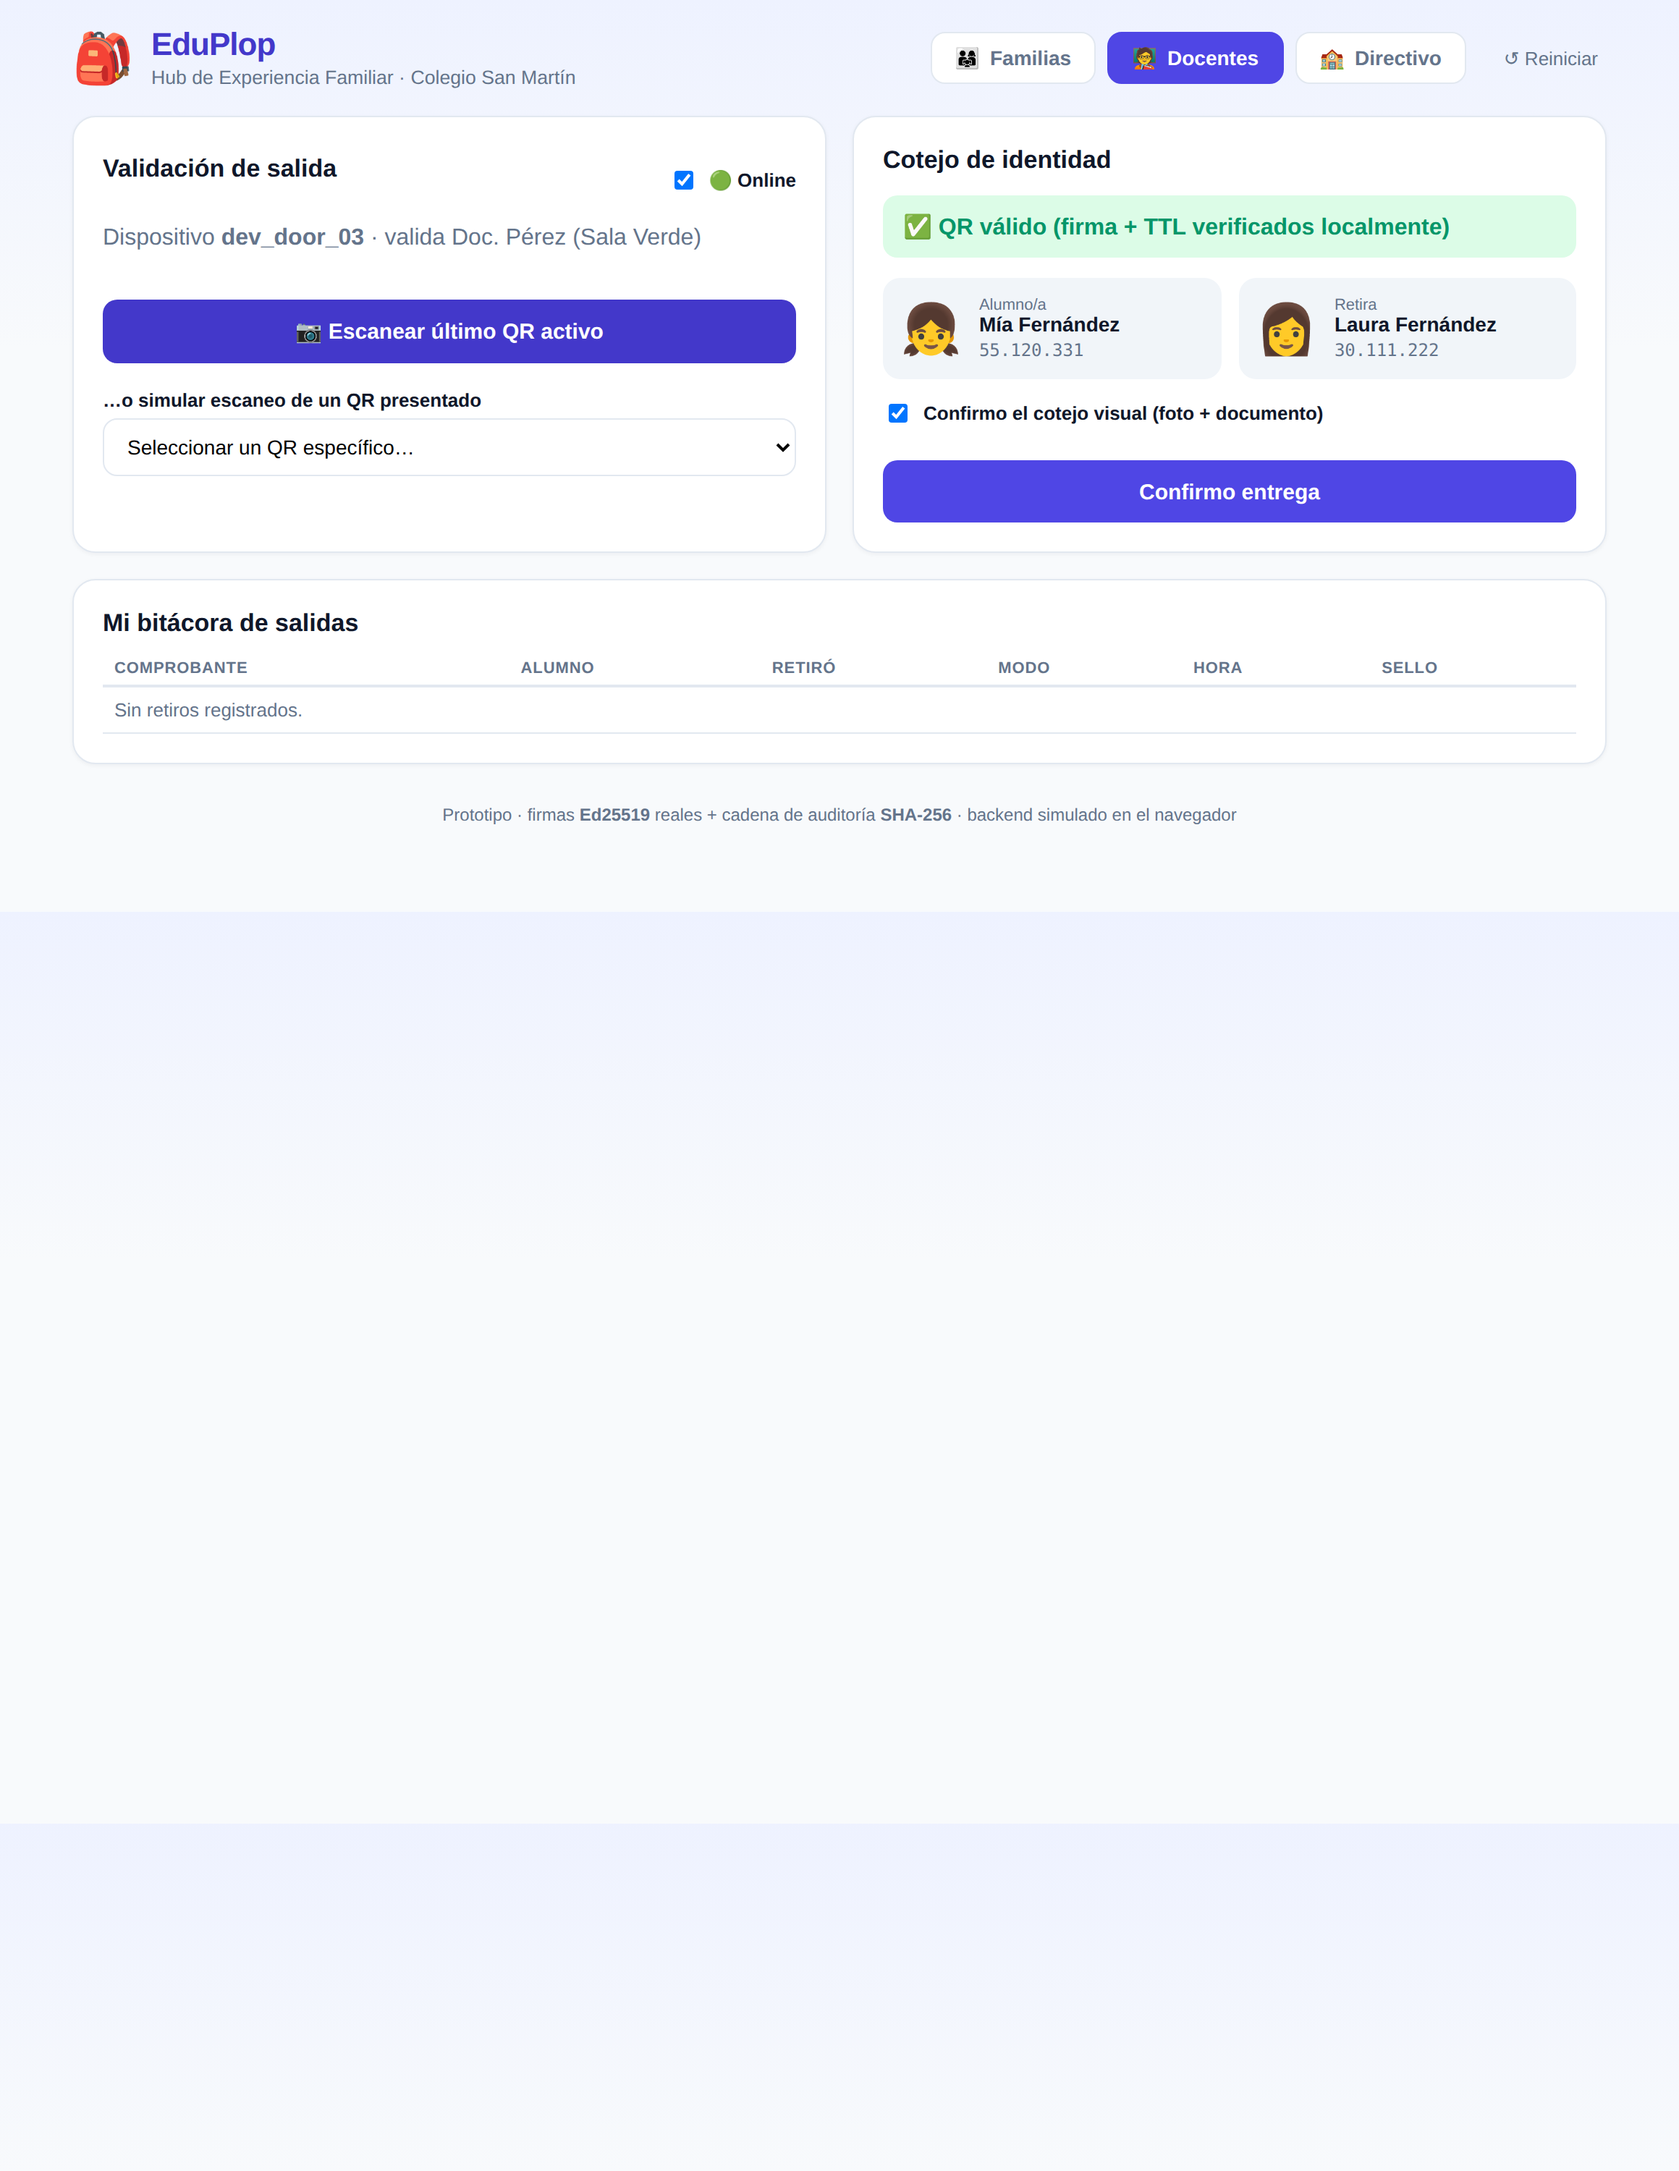
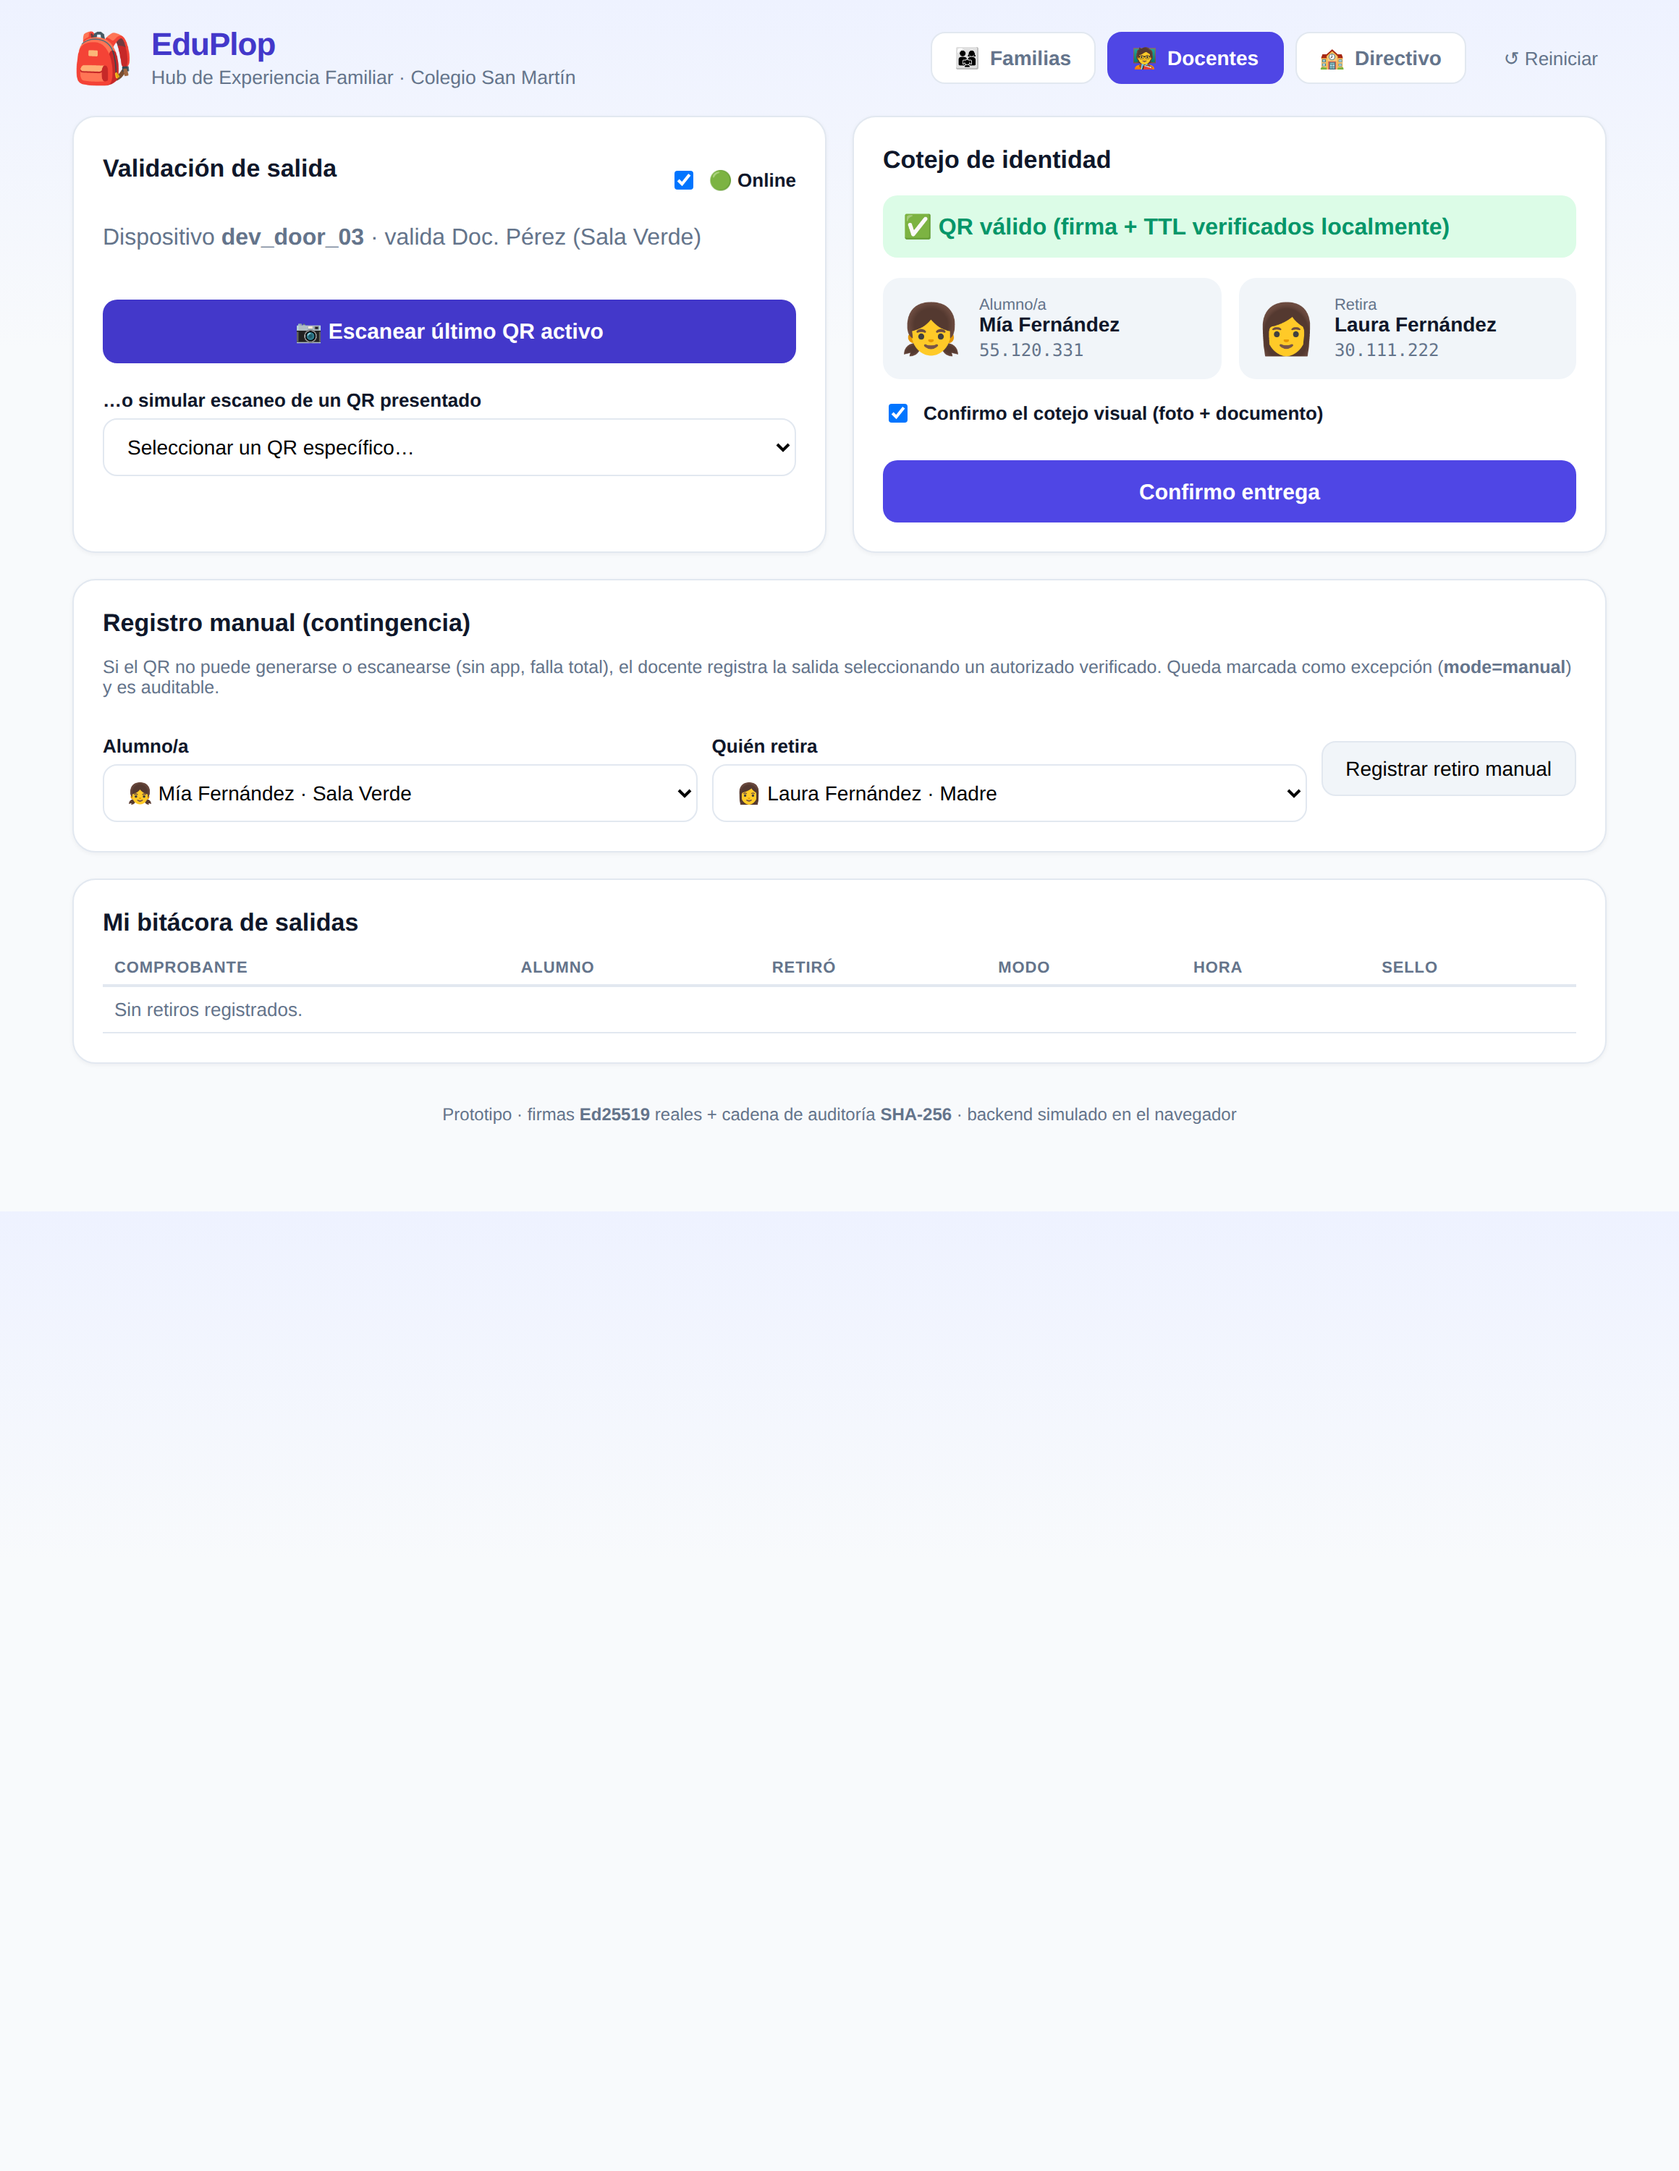
Completar baseline del prototipo: revocación, retiro manual y resolución de disputas
- Revocación de autorizados (lista de revocación) aplicada en la validación,
  efectiva también en modo offline vía caché
- Retiro manual / contingencia (mode=manual) cuando el QR no puede usarse
- Apertura y resolución de incidentes/disputas con evento compensatorio
  (el comprobante original permanece inmutable)
- Nuevos tipos de evento en el ledger y etiquetas en el módulo directivo
- Capturas actualizadas del flujo completo (8 etapas)

https://claude.ai/code/session_01XYjRh2NcPxb8PZkPSAH7D7

diff --git a/prototype/src/lib/store.ts b/prototype/src/lib/store.ts
@@ -17,6 +17,7 @@ interface State {
   incidents: Incident[];
   settings: Settings;
   consumedLocally: string[]; // jti consumidos en el dispositivo (anti-reuso offline)
+  revokedGuardians: string[]; // lista de revocación (cacheable offline)
 }
 
 const LS_KEY = "eduplop-state-v1";
@@ -31,6 +32,7 @@ function freshState(): State {
     incidents: [],
     settings: { ttlSeconds: 60, clockSkewSeconds: 5, deviceOnline: true },
     consumedLocally: [],
+    revokedGuardians: [],
   };
 }
 
@@ -141,6 +143,12 @@ class Store {
     const claims = local.claims;
     const online = this.state.settings.deviceOnline;
 
+    // revocación del autorizado (lista cacheable → también funciona offline)
+    if (this.state.revokedGuardians.includes(claims.act)) {
+      this.appendAudit("pickup_failed", claims.jti, teacherId, "Autorizado revocado / suspendido");
+      return { ok: false, reason: "Autorizado revocado o suspendido (no habilitado para retirar)" };
+    }
+
     // anti-reuso local (siempre)
     if (this.state.consumedLocally.includes(claims.jti)) {
       this.appendAudit("pickup_failed", claims.jti, teacherId, "QR ya utilizado en este dispositivo");
@@ -242,6 +250,55 @@ class Store {
     };
     this.commit({ incidents: [inc, ...this.state.incidents] });
     this.appendAudit("dispute_opened", receiptId, "admin", "Disputa registrada (evento compensatorio)");
+  }
+
+  resolveIncident(id: string, resolution: string) {
+    this.commit({
+      incidents: this.state.incidents.map((i) =>
+        i.id === id ? { ...i, status: "resolved", resolution } : i),
+    });
+    this.appendAudit("dispute_resolved", id, "admin", `Incidente resuelto: ${resolution}`);
+  }
+
+  revokeGuardian(id: string) {
+    if (this.state.revokedGuardians.includes(id)) return;
+    this.commit({ revokedGuardians: [...this.state.revokedGuardians, id] });
+    this.appendAudit("guardian_revoked", id, "admin", `Autorizado ${id} revocado (lista de revocación)`);
+  }
+  restoreGuardian(id: string) {
+    this.commit({ revokedGuardians: this.state.revokedGuardians.filter((g) => g !== id) });
+    this.appendAudit("guardian_restored", id, "admin", `Autorizado ${id} rehabilitado`);
+  }
+  isRevoked(id: string) { return this.state.revokedGuardians.includes(id); }
+
+  /** Retiro de contingencia (sin QR): el docente registra una salida verificada manualmente. */
+  manualPickup(studentId: string, authorizedId: string, teacherId: string):
+    { ok: boolean; reason?: string; receipt?: PickupReceipt } {
+    if (this.state.revokedGuardians.includes(authorizedId)) {
+      this.appendAudit("pickup_failed", "MANUAL", teacherId, "Autorizado revocado (intento de retiro manual)");
+      return { ok: false, reason: "Autorizado revocado o suspendido" };
+    }
+    const online = this.state.settings.deviceOnline;
+    const prevHash = this.state.ledger.length ? this.state.ledger[this.state.ledger.length - 1].hash : "GENESIS";
+    const receiptCore = {
+      receiptId: ulid("RCPT_"),
+      tokenJti: "MANUAL",
+      studentId, authorizedId,
+      validatedBy: teacherId,
+      deviceId: DEVICE_ID,
+      mode: "manual" as PickupReceipt["mode"],
+      visualConfirmed: true,
+      timestamp: Date.now(),
+      prevHash,
+    };
+    const payloadHash = sha256hex(JSON.stringify(receiptCore));
+    const deviceSignature = sign(payloadHash, this.state.deviceKey.priv);
+    const serverSignature = online ? sign(payloadHash, this.state.institutionKey.priv) : undefined;
+    const receipt: PickupReceipt = { ...receiptCore, payloadHash, deviceSignature, serverSignature, pendingSync: !online };
+    this.commit({ receipts: [receipt, ...this.state.receipts] });
+    this.appendAudit("pickup_manual", receipt.receiptId, teacherId,
+      `Retiro MANUAL (contingencia): ${studentId} retirado por ${authorizedId}`);
+    return { ok: true, receipt };
   }
 
   // --- DIRECTIVO: verificación e integridad ---

diff --git a/prototype/src/modules/Docentes.tsx b/prototype/src/modules/Docentes.tsx
@@ -1,6 +1,6 @@
-import { useState } from "react";
+import { useMemo, useState } from "react";
 import { store, useStore } from "../lib/store";
-import { STUDENTS, GUARDIANS, TEACHERS } from "../lib/seed";
+import { STUDENTS, GUARDIANS, GUARDIANSHIPS, TEACHERS } from "../lib/seed";
 
 const TEACHER = TEACHERS[0]; // Doc. Pérez
 
@@ -41,6 +41,21 @@ export function Docentes() {
   function sync() {
     const r = store.syncOfflineQueue();
     setToast({ ok: r.conflicts === 0, msg: `Reconciliados ${r.synced} comprobante(s). Conflictos: ${r.conflicts}.` });
+  }
+
+  // --- retiro manual (contingencia) ---
+  const [mStudent, setMStudent] = useState(STUDENTS[0].id);
+  const mAuthorizeds = useMemo(() => {
+    const ids = GUARDIANSHIPS.filter((g) => g.studentId === mStudent).map((g) => g.guardianId);
+    return GUARDIANS.filter((g) => ids.includes(g.id));
+  }, [mStudent]);
+  const [mAuth, setMAuth] = useState(mAuthorizeds[0]?.id);
+  function manual() {
+    const auth = mAuth ?? mAuthorizeds[0]?.id;
+    const res = store.manualPickup(mStudent, auth, TEACHER.id);
+    setToast(res.ok
+      ? { ok: true, msg: `Retiro manual registrado (${res.receipt?.mode}). Comprobante ${res.receipt?.receiptId}` }
+      : { ok: false, msg: res.reason ?? "Rechazado" });
   }
 
   return (
@@ -120,6 +135,31 @@ export function Docentes() {
       {toast && (
         <div className={`toast span2 ${toast.ok ? "ok" : "bad"}`}>{toast.msg}</div>
       )}
+
+      <section className="card span2">
+        <h2>Registro manual (contingencia)</h2>
+        <p className="muted small">
+          Si el QR no puede generarse o escanearse (sin app, falla total), el docente registra
+          la salida seleccionando un autorizado verificado. Queda marcada como excepción (<b>mode=manual</b>) y es auditable.
+        </p>
+        <div className="row gap wrap">
+          <div className="grow">
+            <label>Alumno/a</label>
+            <select value={mStudent} onChange={(e) => { setMStudent(e.target.value); setMAuth(undefined); }}>
+              {STUDENTS.map((s) => <option key={s.id} value={s.id}>{s.emoji} {s.name} · {s.classroom}</option>)}
+            </select>
+          </div>
+          <div className="grow">
+            <label>Quién retira</label>
+            <select value={mAuth ?? mAuthorizeds[0]?.id} onChange={(e) => setMAuth(e.target.value)}>
+              {mAuthorizeds.map((g) => (
+                <option key={g.id} value={g.id}>{g.emoji} {g.name} · {g.relation}{store.isRevoked(g.id) ? " (revocado)" : ""}</option>
+              ))}
+            </select>
+          </div>
+          <button className="ghost" onClick={manual}>Registrar retiro manual</button>
+        </div>
+      </section>
 
       <section className="card span2">
         <h2>Mi bitácora de salidas</h2>

diff --git a/prototype/src/modules/Directivo.tsx b/prototype/src/modules/Directivo.tsx
@@ -6,10 +6,14 @@ import { shortHash } from "../lib/crypto";
 const TYPE_LABEL: Record<string, string> = {
   token_issued: "QR emitido",
   pickup_validated: "Salida validada",
+  pickup_manual: "Salida manual",
   pickup_synced: "Salida reconciliada",
   pickup_failed: "Intento fallido",
   double_use_detected: "Doble uso",
-  dispute_opened: "Disputa",
+  dispute_opened: "Disputa abierta",
+  dispute_resolved: "Disputa resuelta",
+  guardian_revoked: "Autorizado revocado",
+  guardian_restored: "Autorizado rehabilitado",
   device_revoked: "Dispositivo revocado",
 };
 
@@ -58,12 +62,43 @@ export function Directivo() {
         )}
       </section>
 
+      <section className="card">
+        <h2>Autorizados (lista de revocación)</h2>
+        <p className="muted small">Revocar suspende a la persona en todos los retiros (incluso offline, vía caché).</p>
+        <table className="tbl">
+          <tbody>
+            {GUARDIANS.map((g) => {
+              const revoked = state.revokedGuardians.includes(g.id);
+              return (
+                <tr key={g.id}>
+                  <td>{g.emoji} {g.name} <span className="mono">· {g.relation}</span></td>
+                  <td>{revoked ? <span className="pill revoked">revocado</span> : <span className="pill active">activo</span>}</td>
+                  <td style={{ textAlign: "right" }}>
+                    {revoked
+                      ? <button className="link" onClick={() => store.restoreGuardian(g.id)}>Rehabilitar</button>
+                      : <button className="link" onClick={() => store.revokeGuardian(g.id)}>Revocar</button>}
+                  </td>
+                </tr>
+              );
+            })}
+          </tbody>
+        </table>
+      </section>
+
       <section className="card span2">
         <h2>Incidentes</h2>
         {state.incidents.length === 0 && <p className="muted">Sin incidentes.</p>}
         {state.incidents.map((i) => (
           <div key={i.id} className="incident">
-            <span className={`pill ${i.type}`}>{i.type}</span> {i.detail}
+            <span className={`pill ${i.type}`}>{i.type}</span>
+            <span className={`pill ${i.status === "resolved" ? "active" : "warn"}`}>{i.status}</span>
+            {" "}{i.detail}
+            {i.resolution && <div className="muted small">↳ Resolución: {i.resolution}</div>}
+            {i.status === "open" && (
+              <button className="link" onClick={() => store.resolveIncident(i.id, "Verificado con evidencia; salida legítima")}>
+                Resolver
+              </button>
+            )}
             <span className="mono"> · {i.id}</span>
           </div>
         ))}

diff --git a/prototype/src/styles.css b/prototype/src/styles.css
@@ -102,8 +102,12 @@ button { font-size: 14px; }
 .pill.warn { background: #fde68a; color: #92400e; }
 .pill.token_issued { background: #e0e7ff; color: var(--brand-d); }
 .pill.pickup_validated, .pill.pickup_synced { background: #dcfce7; color: var(--ok); }
-.pill.pickup_failed, .pill.double_use, .pill.double_use_detected { background: #fee2e2; color: var(--bad); }
+.pill.pickup_failed, .pill.double_use, .pill.double_use_detected, .pill.guardian_revoked { background: #fee2e2; color: var(--bad); }
 .pill.dispute, .pill.dispute_opened { background: #fef3c7; color: var(--warn); }
+.pill.manual, .pill.pickup_manual { background: #fef3c7; color: #92400e; }
+.pill.dispute_resolved, .pill.guardian_restored { background: #dcfce7; color: var(--ok); }
+.row.wrap { flex-wrap: wrap; }
+.grow { flex: 1 1 220px; }
 
 /* tables */
 .tbl { width: 100%; border-collapse: collapse; margin-top: 8px; font-size: 13px; }

diff --git a/prototype/src/lib/types.ts b/prototype/src/lib/types.ts
@@ -64,10 +64,14 @@ export interface PickupReceipt {
 export type AuditEventType =
   | "token_issued"
   | "pickup_validated"
+  | "pickup_manual"
   | "pickup_failed"
   | "pickup_synced"
   | "double_use_detected"
   | "dispute_opened"
+  | "dispute_resolved"
+  | "guardian_revoked"
+  | "guardian_restored"
   | "device_revoked";
 
 export interface AuditEvent {
@@ -87,6 +91,7 @@ export interface Incident {
   refReceiptId: string;
   status: "open" | "resolved";
   detail: string;
+  resolution?: string;
   timestamp: number;
 }
 

diff --git a/prototype/README.md b/prototype/README.md
@@ -22,8 +22,11 @@ npm run dev      # http://localhost:5173
 | Docentes → escaneo, verificación local de **firma + TTL**, cotejo visual (foto+doc) y "Confirmo entrega" | `docs/02`, `docs/03` |
 | Toggle **Online/Offline** del dispositivo: offline encola el comprobante firmado y luego **sincroniza** | `docs/02`, `docs/04` |
 | Comprobante con `payload_hash` + `prev_hash` (encadenado) y doble firma (dispositivo + servidor) | `docs/03` |
+| **Retiro manual / contingencia** (`mode=manual`) cuando el QR no puede usarse | `docs/04` (Caso 3) |
+| **Revocación de autorizados** (lista de revocación) aplicada en validación, también offline | `docs/01`, `docs/06` |
+| **Resolución de disputas** con evento compensatorio (el comprobante original no se altera) | `docs/04` (Caso 2) |
 | Directivo → KPIs, libro de auditoría encadenado, **verificación de integridad** y **simulación de alteración** | `docs/03` |
-| Detección de **doble uso** en la reconciliación → incidente | `docs/04` |
+| Detección de **doble uso** en la reconciliación → incidente | `docs/04` (Caso 1) |
 
 ## Capturas
 
